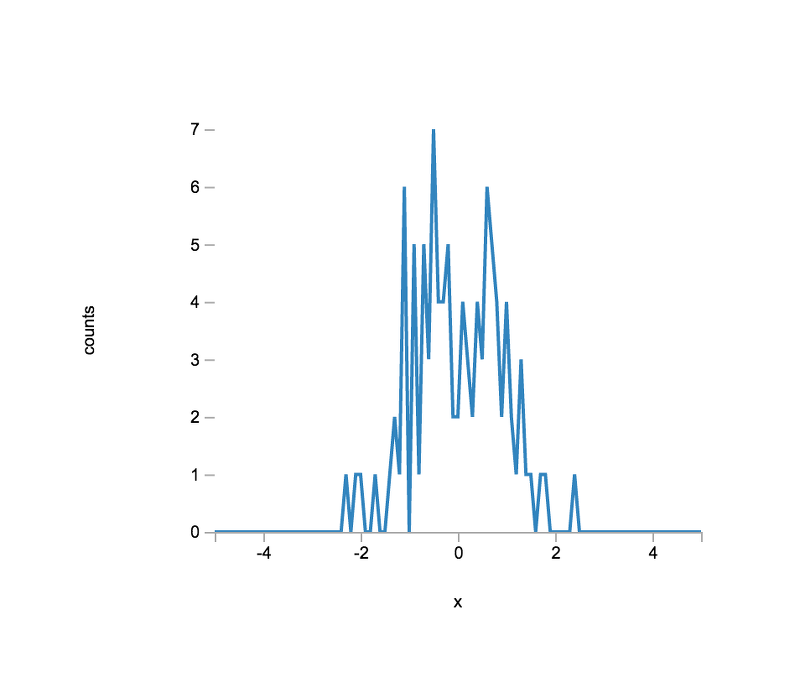
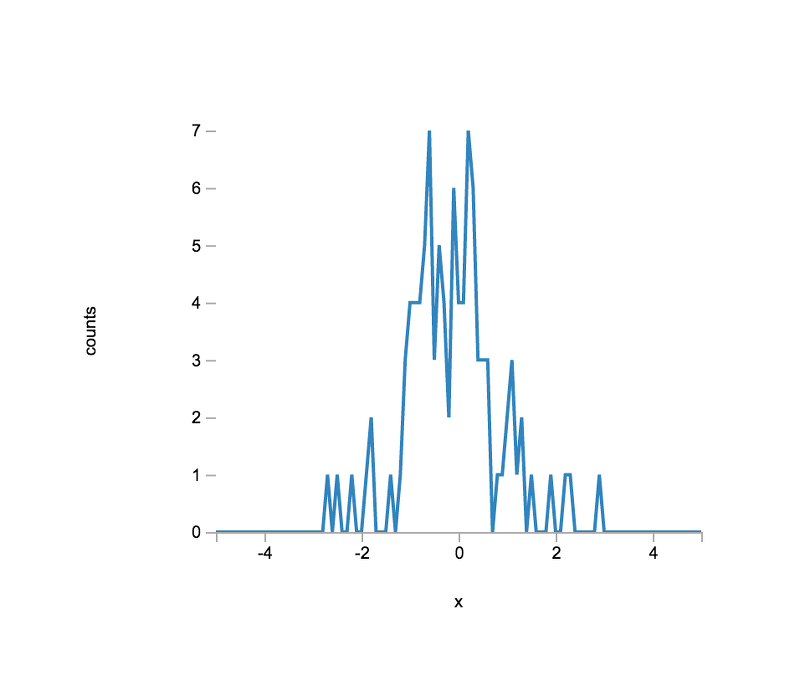
Fix exercise overlay exercise

diff --git a/index.html b/index.html
@@ -750,7 +750,7 @@
     counts[ idx ] += 1;
 };</code></pre>
 			<p>
-				In order to plot the data, we need to construct a bin vector covering the expected bin domain; i.e., -5.0, -4.9, ..., 4.9, 5.0.
+				In order to plot the data, we need to construct a bin vector, which will be plotted along the x-axis, covering the expected bin domain; i.e., -5.0, -4.9, ..., 4.9, 5.0.
 			</p>
 			<pre><code language="javascript">
 &gt; var bcenters = new Float64Array( nbins );
@@ -763,11 +763,11 @@
 				To plot the data, we proceed as we did in the previous lab.
 			</p>
 			<pre><code language="javascript">
-&gt; var plt = plot( [bcenters], [counts] );
-&gt; plt.xLabel = 'x';
-&gt; plt.yLabel = 'counts';
+&gt; var plt1 = plot( [bcenters], [counts] );
+&gt; plt1.xLabel = 'x';
+&gt; plt1.yLabel = 'counts';
 &gt; var el = document.querySelector( '#histogram-normal-1' );
-&gt; el.innerHTML = vdom2html( plt.render() );</code></pre>
+&gt; el.innerHTML = vdom2html( plt1.render() );</code></pre>
 			<figure id="histogram-normal-1" align="center">
 				<img alt="placeholder" src="img/plot_placeholder.png" style="max-width:400px;">
 				<figcaption>Figure #histogram-normal-1: A histogram of numbers drawn from a normal distribution.</figcaption>
@@ -780,23 +780,39 @@
 				<figcaption>Figure E6: Expected plot.</figcaption>
 			</figure>
 			<p>
-				To see how well the empirical distribution matches the expected distribution, let us first generate the expected distribution using <code>base.dist.normal.pdf()</code>.
+				To see how well the empirical distribution matches the expected distribution, let us first generate an (approximated) expected distribution using <code>base.dist.normal.pdf()</code>.
 			</p>
 			<pre><code language="javascript">
-&gt; var expected = new Float64Array( x.length );
-&gt; forEach( x, function ( v, i ) {
-    v = base.dist.normal.pdf( v, 0.0, 1.0 );
-    expected[ i ] = v;
+&gt; var expected = new Float64Array( bcenters.length );
+&gt; forEach( bcenters, function ( x, i ) {
+    var density = base.dist.normal.pdf( x, 0.0, 1.0 );
+    expected[ i ] = N * bwidth * density;
 });</code></pre>
-			<p>
-				Recall that the <a title="Probability distribution" href="https://en.wikipedia.org/wiki/Probability_distribution">probability distribution</a> describes the relative <i>frequency</i> in which each possible outcome will occur in an <strong>experiment</strong>. To convert our empirical distribution from counts to frequencies, we need to normalize our data by dividing by the total number of observations.
-			</p>
-			<pre><code language="javascript">
-&gt; inmap( y, function ( v ) { return v / N; } );
-			</code></pre>
+			<aside class="special">
+				<p>
+					The conversion from a probability density to a probability is more involved than the <a title="Approximating a probability from a probability density" href="http://mathinsight.org/probability_density_function_idea">approximation</a> used here.
+				</p>
+			</aside>
 			<p>
 				We can now update the plot to show both the empirical and expected distributions.
 			</p>
+			<pre><code language="javascript">
+&gt; var plt2 = plot( [bcenters,bcenters], [counts,expected] );
+&gt; plt2.xLabel = 'x';
+&gt; plt2.yLabel = 'counts';
+&gt; var el = document.querySelector( '#histogram-normal-overlay-1' );
+&gt; el.innerHTML = vdom2html( plt2.render() );</code></pre>
+			<figure id="histogram-normal-overlay-1" align="center">
+				<img alt="placeholder" src="img/plot_placeholder.png" style="max-width:400px;">
+				<figcaption>Figure #histogram-normal-overlay-1: Empirical and expected distributions.</figcaption>
+			</figure>
+			<p>
+				The plot view should look similar to the following:
+			</p>
+			<figure align="center">
+				<img alt="Empirical and expected distributions" src="img/histogram_normal_overlay_1.png" style="max-width: 600px;">
+				<figcaption>Figure E7: Expected plot.</figcaption>
+			</figure>
 
 			<h3>Exercises</h3>
 			<ul>
